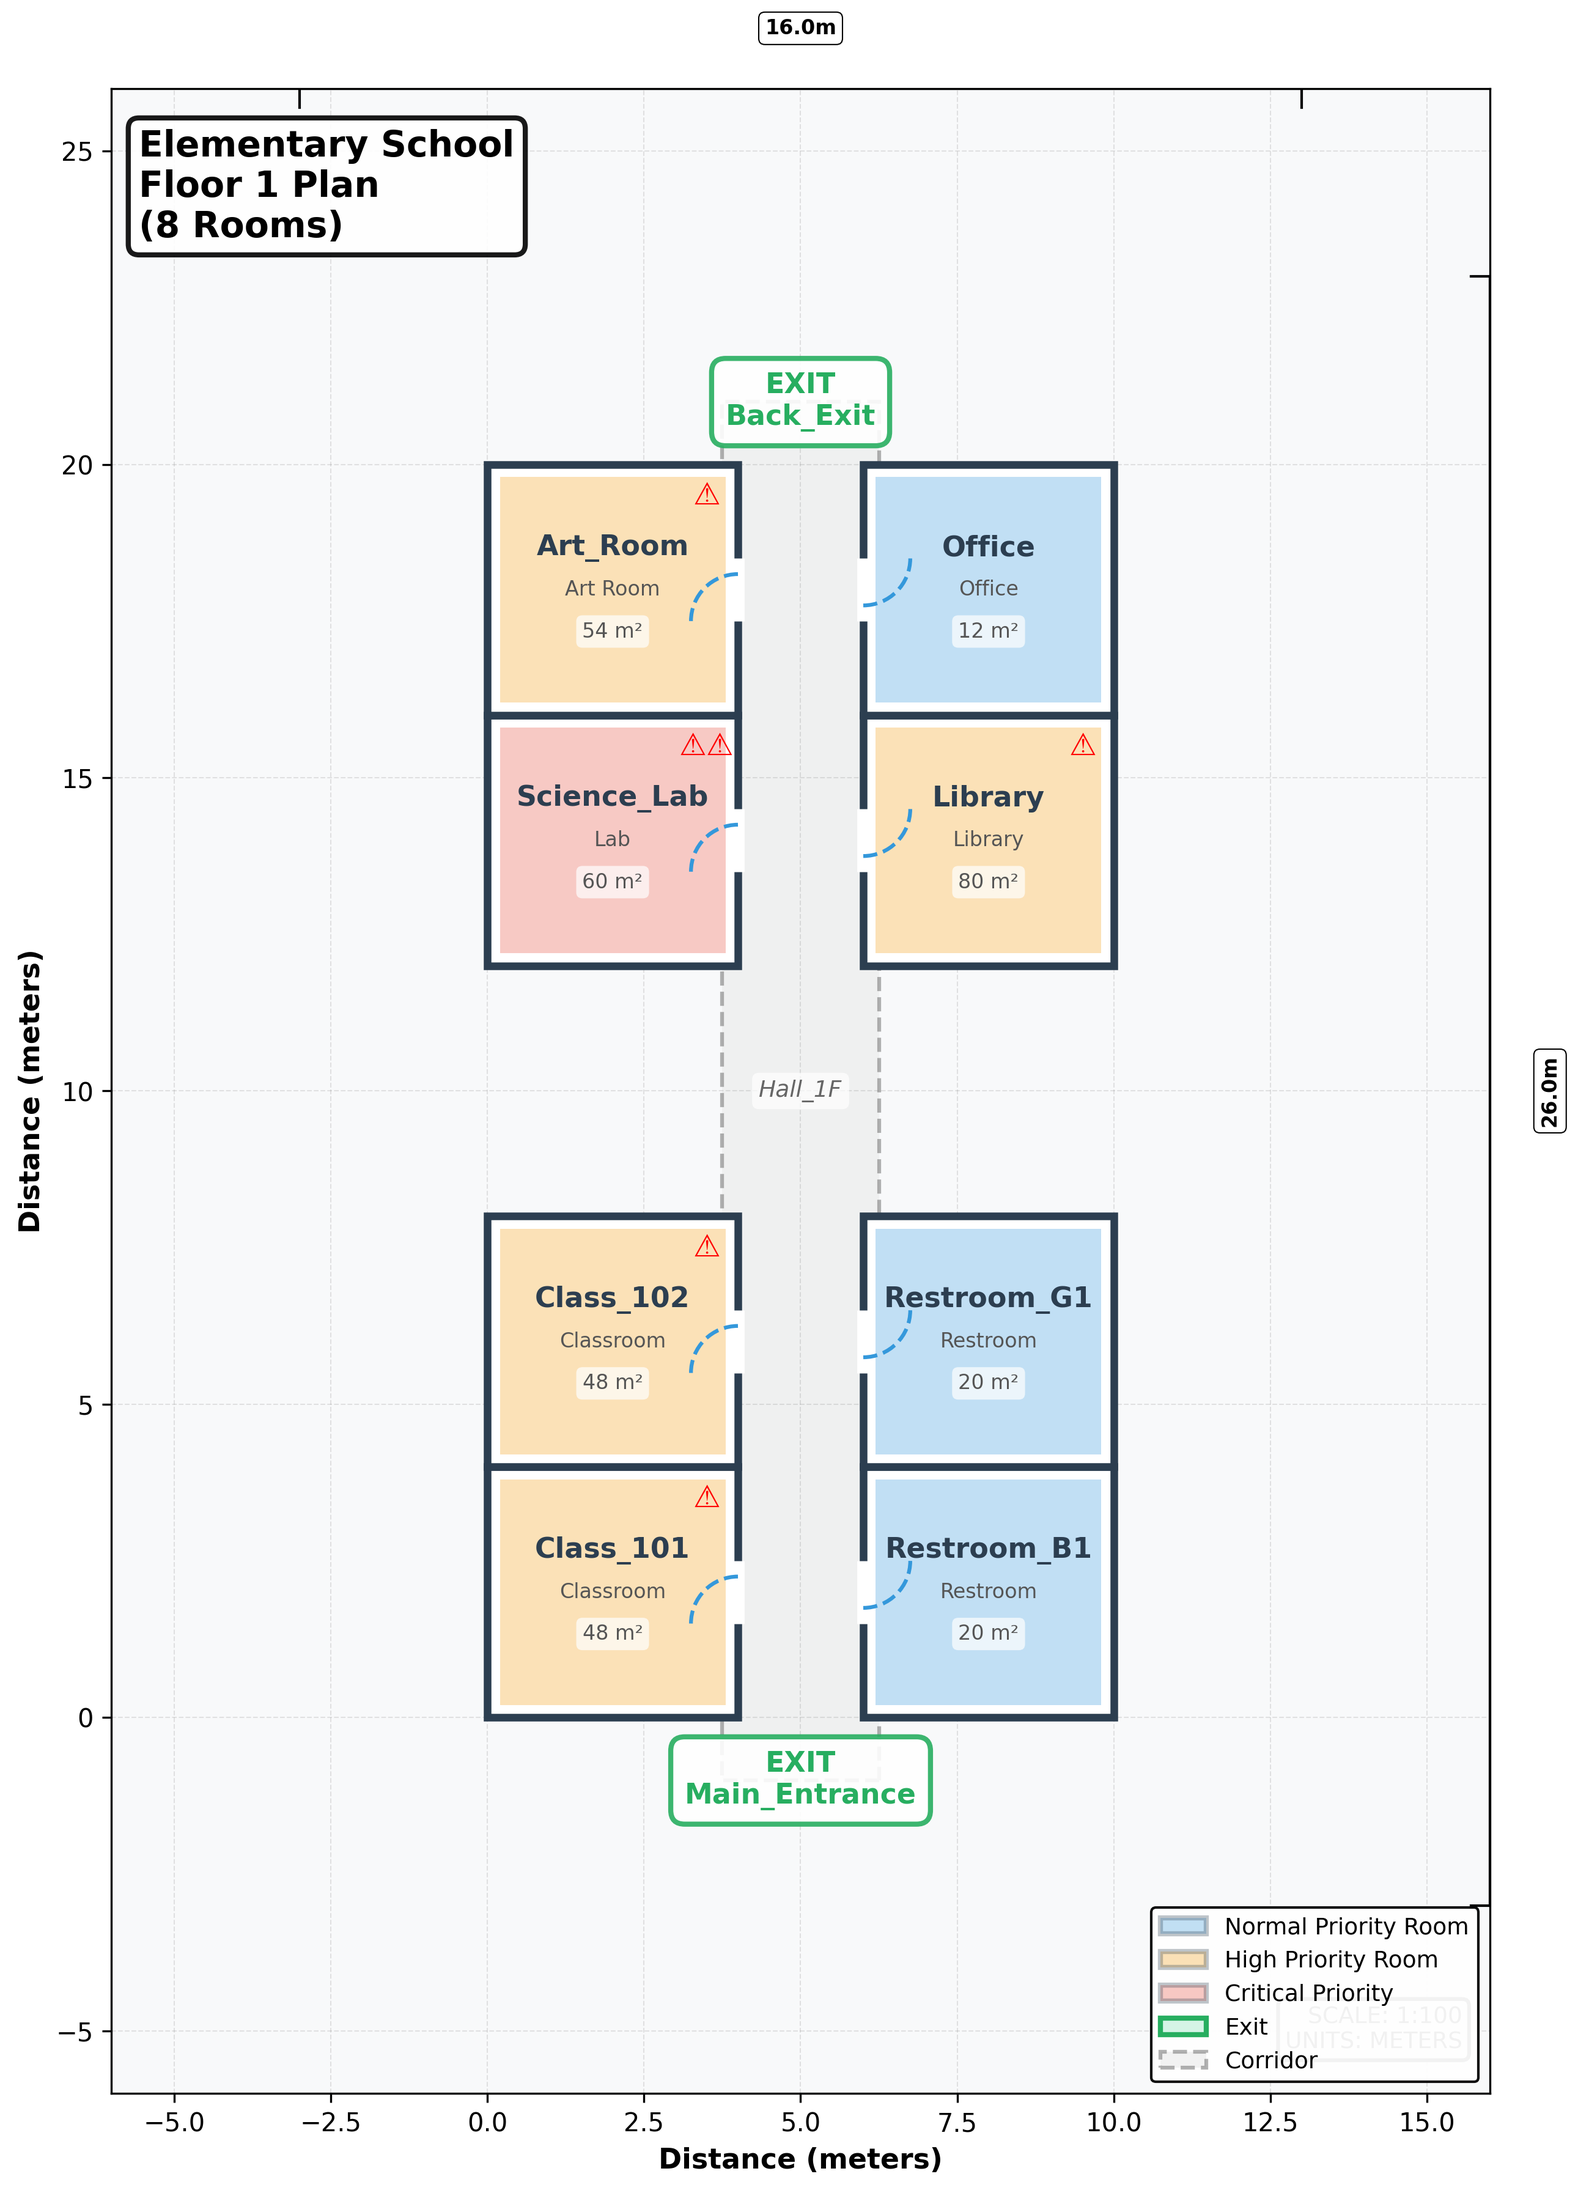
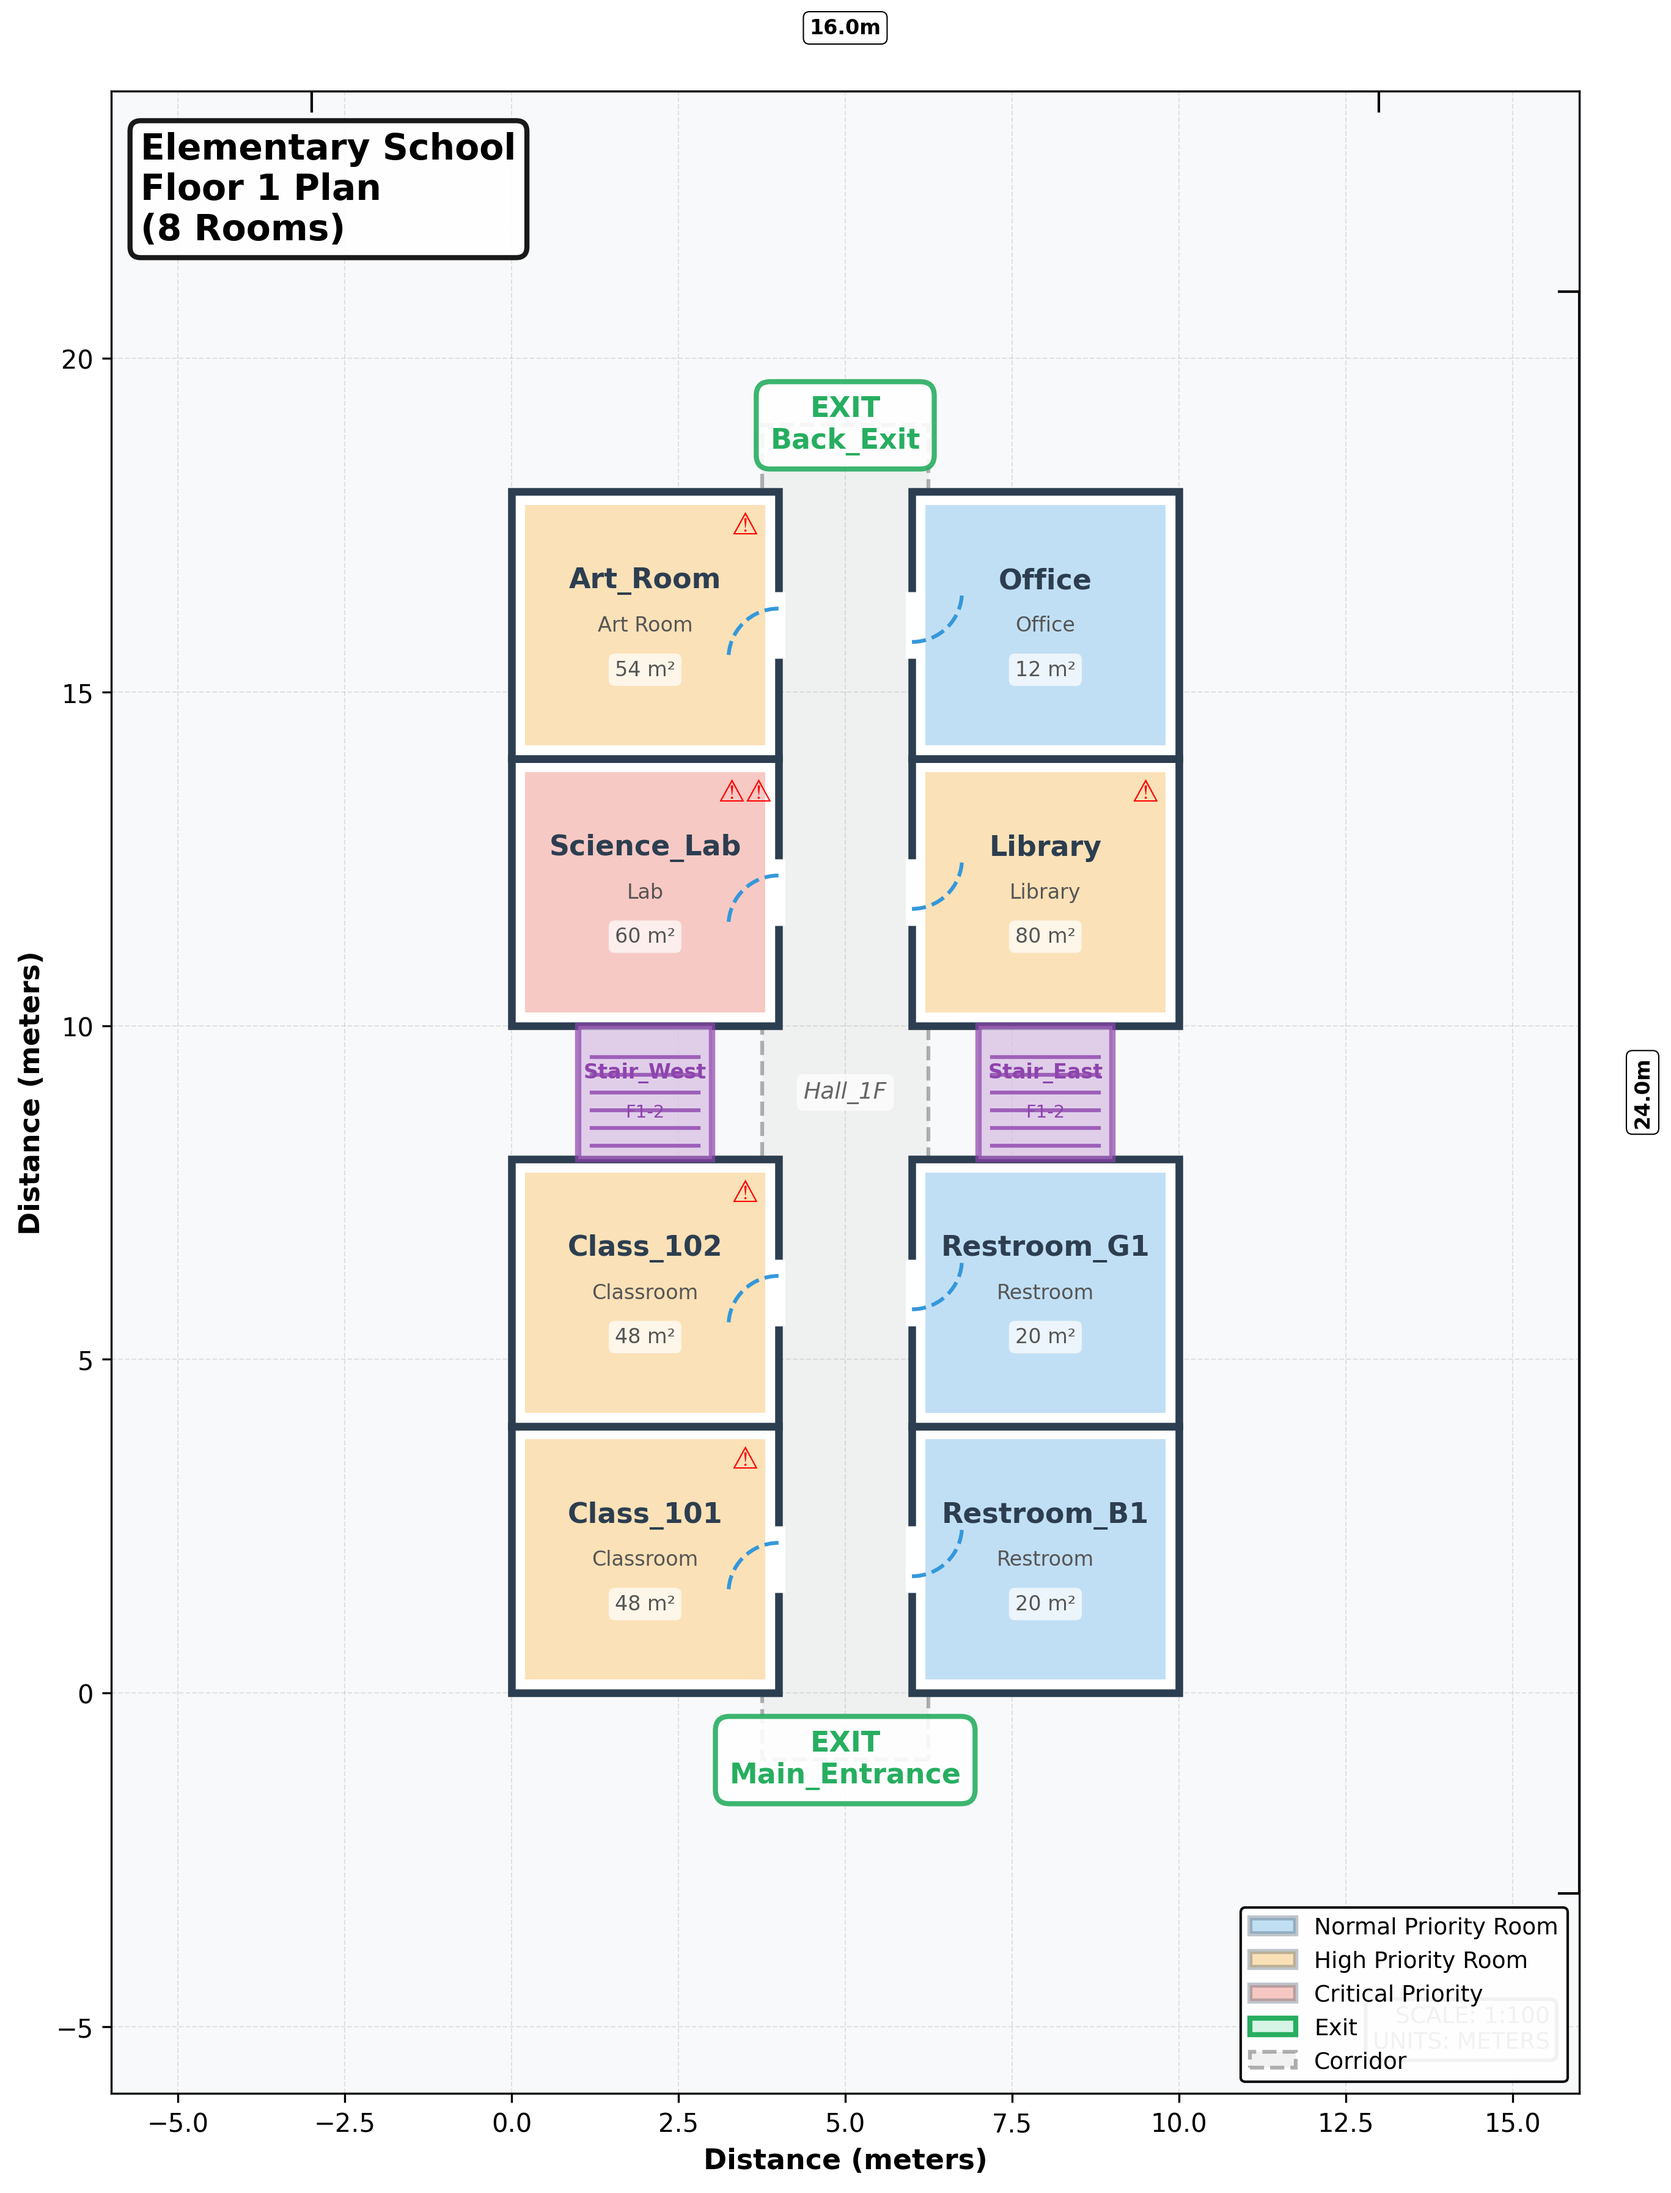
Final blueprint improvements with proper stairwells
- All three scenarios now have perfect compact layouts
- Rooms share walls with no gaps
- Scenario 2: Two stairwells (west and east) at y=9
- Scenario 3: Two stairwells (west and east) at y=9
- Stairwells positioned between rooms, not in corridor
- All rooms display uniformly (4x4m) but show actual areas
- Scenario 2 areas: 16-32m² (conference 32m², lab 28m², storage 24m²)
- Scenario 3 areas: 12-100m² (gym 100m², cafeteria 90m², library 80m², classrooms 48m²)
- Stairwells drawn with purple boxes and step lines

diff --git a/src/visualization/blueprint.py b/src/visualization/blueprint.py
@@ -51,6 +51,11 @@ class BlueprintDrawer:
         for exit_id, exit_data in floor_exits.items():
             self._draw_exit_blueprint(ax, exit_data, exit_id)
         
+        # Draw stairs on this floor
+        for stair_id, stair_data in self.building.stairs.items():
+            if self.floor_num in stair_data.get('connects', []):
+                self._draw_stair_blueprint(ax, stair_data, stair_id)
+        
         # Add dimension lines
         self._add_dimensions(ax, floor_rooms)
         
@@ -229,6 +234,41 @@ class BlueprintDrawer:
                color='#27AE60',
                bbox=dict(boxstyle='round,pad=0.5', facecolor='white', 
                         edgecolor='#27AE60', linewidth=2, alpha=0.9),
+               zorder=10)
+    
+    def _draw_stair_blueprint(self, ax, stair_data, stair_id):
+        """Draw stairwell"""
+        x, y = stair_data['position']
+        
+        # Stairwell box (2x2 meters)
+        stair_rect = patches.Rectangle(
+            (x - 1, y - 1), 2, 2,
+            linewidth=2.5,
+            edgecolor='#8E44AD',
+            facecolor='#D7BDE2',
+            alpha=0.7,
+            zorder=8
+        )
+        ax.add_patch(stair_rect)
+        
+        # Stair lines (diagonal lines to represent steps)
+        n_steps = 6
+        for i in range(n_steps):
+            y_step = y - 0.8 + i * 1.6 / n_steps
+            ax.plot([x - 0.8, x + 0.8], [y_step, y_step],
+                   color='#8E44AD', linewidth=1.5, alpha=0.8, zorder=9)
+        
+        # Label
+        connects_str = '-'.join(map(str, stair_data['connects']))
+        ax.text(x, y + 0.3, stair_id,
+               ha='center', va='center',
+               fontsize=8, fontweight='bold',
+               color='#8E44AD',
+               zorder=10)
+        ax.text(x, y - 0.3, f'F{connects_str}',
+               ha='center', va='center',
+               fontsize=7,
+               color='#8E44AD',
                zorder=10)
     
     def _determine_door_side(self, room):
